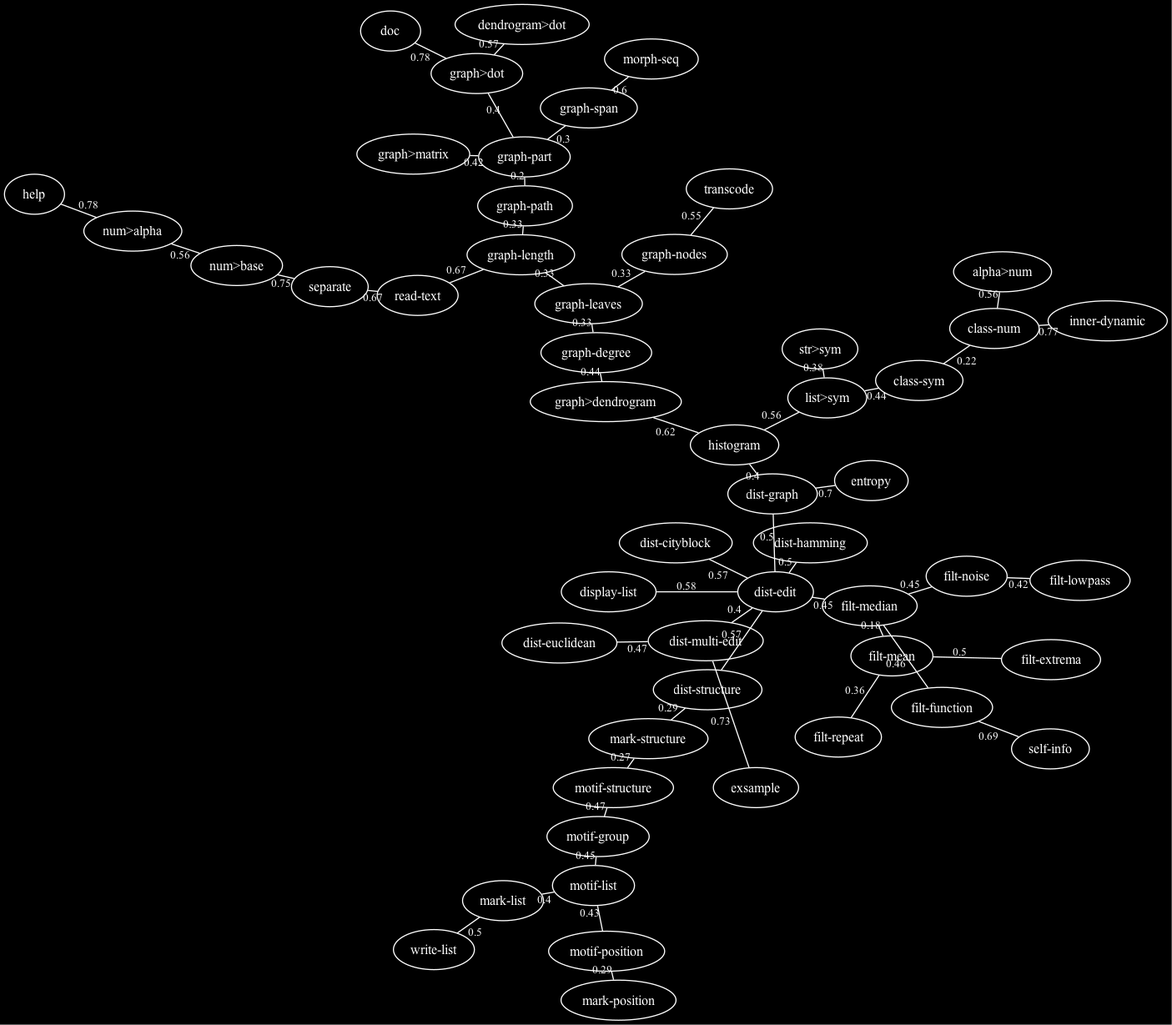
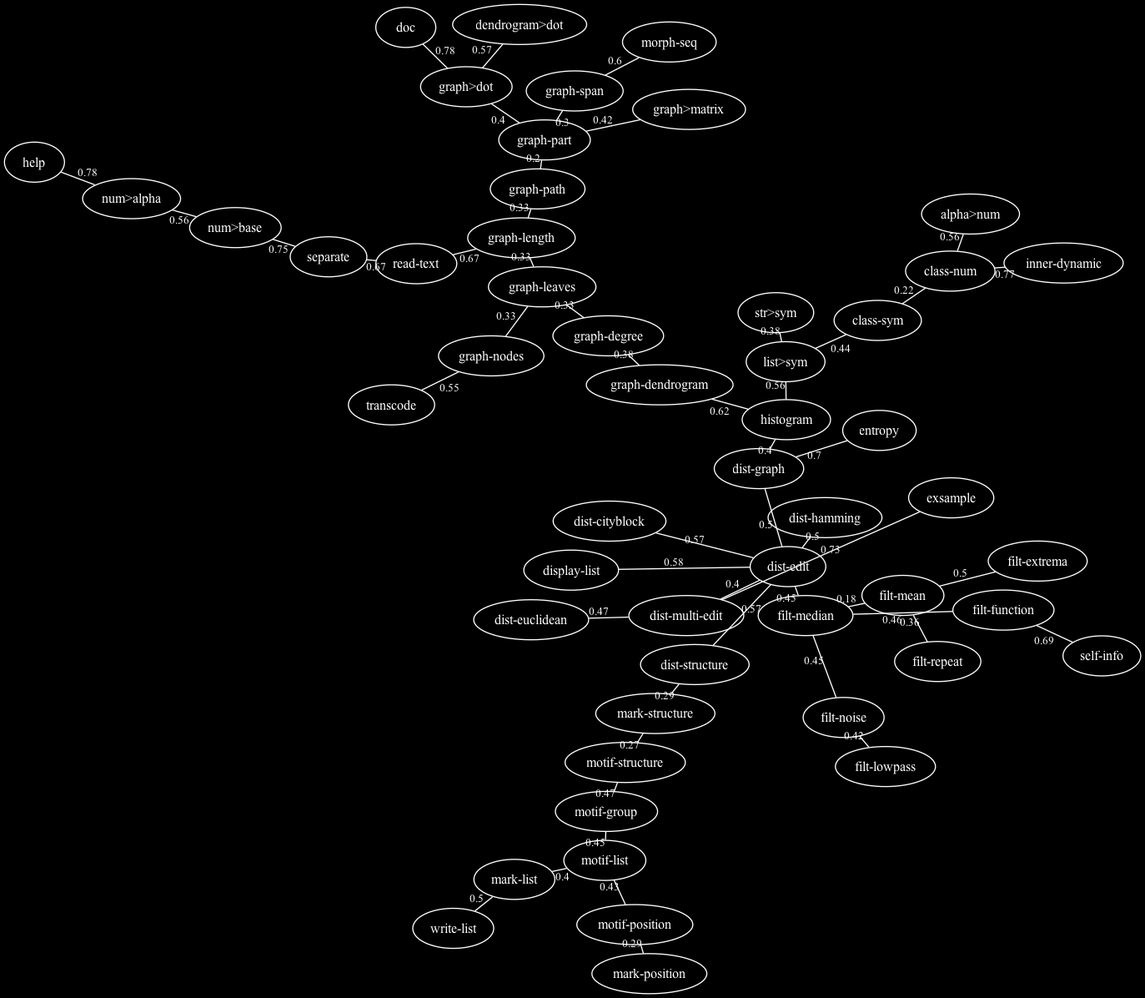
Rename graph>dendrogram graph-dendrogram; the rule of - and > documented
graph>dendrogram computes a classification, an analysis like graph-span
and graph-part: it is renamed graph-dendrogram. The sign > is kept for
the changes of representation without analysis (graph>dot,
dendrogram>dot, graph>matrix, num>base...), and the function tables now
state the rule: > for a change of representation, the hyphen for an
operation of a family. Code, tests, documentation, script of the trees,
CHANGELOG (0.2.1); trees redrawn.

diff --git a/doc/refrains-fonctions.fr.md b/doc/refrains-fonctions.fr.md
@@ -6,7 +6,7 @@ Les 52 fonctions exportées du paquet `:refrains` (version 0.2.1), regroupées s
 
 Les ressemblances entre ces fonctions, d'après leurs noms et d'après leur documentation, sont tracées dans les [Arbres des fonctions](#arbres-des-fonctions).
 
-A propos de terminologie : dans un souci de simplification et de cohérence, le nom des fonctions peut évoluer avec les versions et, autant que possible, se référer à une étymologie commune au français et à l'anglais, voire à l'indo-européen. Depuis la version 0.2.0, les noms suivent deux conventions : `famille-objet` (`filt-median`, `graph-path`, `dist-edit`, `motif-list`…) et `source>cible` pour les conversions (`num>base`, `str>sym`, `graph>dot`, `graph>dendrogram`…). Pour les fonctions qui portent sur des arbres, Fred a préféré *graph* à *arbre* : le mot est commun au français et à l'anglais (*graphe*, *graph*), la théorie des graphes s'applique aux arbres, et elle sert aussi au développement de refrains.
+A propos de terminologie : dans un souci de simplification et de cohérence, le nom des fonctions peut évoluer avec les versions et, autant que possible, se référer à une étymologie commune au français et à l'anglais, voire à l'indo-européen. Depuis la version 0.2.0, les noms suivent deux conventions : `famille-objet` (`filt-median`, `graph-path`, `dist-edit`, `motif-list`…) et `source>cible` pour les conversions (`num>base`, `str>sym`, `graph>dot`, `dendrogram>dot`…). Le signe `>` marque un changement de représentation, sans analyse : le même contenu sous une autre forme (un nombre en base n, une liste en symbole, un graphe en matrice ou en fichier dot). Le tiret marque une opération d'une famille, qui calcule quelque chose de nouveau : filtrer, mesurer une distance, chercher des motifs, classer (`graph-span`, `graph-part`, `graph-dendrogram`). Le signe `>` se lit « vers » comme « to » : il ne dépend d'aucune langue. Pour les fonctions qui portent sur des arbres, Fred a préféré *graph* à *arbre* : le mot est commun au français et à l'anglais (*graphe*, *graph*), la théorie des graphes s'applique aux arbres, et elle sert aussi au développement de refrains.
 
 ## 1. Transcription
 
@@ -26,7 +26,7 @@ A propos de terminologie : dans un souci de simplification et de cohérence, le 
 | [`filt-noise`](refrains.fr.md#filt-noise-seq-optional-mode-val) | `seq &optional mode val` | FILT-NOISE : agite ou bruite la suite &lt;seq&gt; selon différentes méthodes, choisies par le premier argument optionnel &lt;mode&gt;,<br>avec la quantité &lt;val&gt; (0.1 par défaut), relative à l'étendue (max - min) de &lt;seq&gt; :<br> :nozero : remplace chaque valeur nulle de &lt;seq&gt; par une valeur aléatoire dans ]0, val * étendue[<br> :swap : échange val * longueur paires d'éléments (val entier : le nombre d'échanges)<br> :relative : ajoute à chaque valeur une quantité aléatoire dans [-val * étendue, val * étendue]<br>Les éléments d'une suite non numérique sont échangés.<br>&lt;mode&gt; peut aussi être une fonction de deux arguments (x l) : chaque élément x de &lt;seq&gt; est remplacé par son résultat, l étant toute la suite &lt;seq&gt; ; &lt;val&gt; est alors ignoré.<br>Par exemple, (lambda (x l) (declare (ignore x)) (nth (random (length l)) l)) remplace chaque élément par un élément de &lt;seq&gt; pris au hasard. |
 | [`filt-function`](refrains.fr.md#filt-function-seq-func-window-optional-step) | `seq func window &optional step` | Applique la fonction &lt;func&gt; à la suite &lt;seq&gt; sur une fenêtre glissante de longueur &lt;window&gt;, avec le pas (optionnel) &lt;step&gt; (1 par défaut).<br>La taille de la fenêtre peut être un entier (en échantillons) ou une fraction de la longueur de seq ; le pas peut être un entier (en échantillons) ou une fraction de la fenêtre.<br>Avec un pas de 1, la fenêtre est centrée sur chaque valeur ; avec un pas plus grand, elle est centrée sur chaque bloc de step valeurs.<br>Une valeur renvoyée par &lt;func&gt; est répétée pour le bloc ; une liste remplace le bloc (step = window), ou donne les valeurs des positions du bloc. |
 | [`graph-span`](refrains.fr.md#graph-span-mat-dist-optional-verbose) | `mat-dist &optional verbose` | GRAPH-SPAN : arbre de recouvrement minimal construit sur une semi-matrice de distances &lt;mat-dist&gt;. |
-| [`graph>dendrogram`](refrains.fr.md#graphdendrogram-mat-dist-key-linkage) | `mat-dist &key linkage` | GRAPH&gt;DENDROGRAM : dendrogramme de la classification hiérarchique des objets d'une semi-matrice de<br>distances ou d'un graphe &lt;mat-dist&gt;, une liste d'arêtes (nœud-a nœud-b distance). Renvoie deux valeurs : la liste des<br>fusions successives (distance groupe-a groupe-b), par distance croissante, où un groupe est la liste de ses nœuds ;<br>et le dendrogramme, où chaque fusion est (distance arbre-a arbre-b) et dont les feuilles sont les objets.<br>:linkage définit la distance entre deux groupes : :single (par défaut) la plus petite distance entre leurs objets,<br>donnée par l'arbre de recouvrement minimal (voir graph-span ; un graphe non connexe donne la liste des dendrogrammes<br>de ses parties) ; :complete la plus grande distance ; :average (UPGMA) la distance moyenne ; :ward (méthode de Ward) la<br>fusion qui augmente le moins l'inertie intra-classe, sa distance étant la racine carrée du double de cette augmentation<br>(la distance elle-même pour deux objets). :complete, :average et :ward demandent une semi-matrice de distances complète ;<br>:ward suppose des distances euclidiennes. |
+| [`graph-dendrogram`](refrains.fr.md#graph-dendrogram-mat-dist-key-linkage) | `mat-dist &key linkage` | GRAPH-DENDROGRAM : dendrogramme de la classification hiérarchique des objets d'une semi-matrice de<br>distances ou d'un graphe &lt;mat-dist&gt;, une liste d'arêtes (nœud-a nœud-b distance). Renvoie deux valeurs : la liste des<br>fusions successives (distance groupe-a groupe-b), par distance croissante, où un groupe est la liste de ses nœuds ;<br>et le dendrogramme, où chaque fusion est (distance arbre-a arbre-b) et dont les feuilles sont les objets.<br>:linkage définit la distance entre deux groupes : :single (par défaut) la plus petite distance entre leurs objets,<br>donnée par l'arbre de recouvrement minimal (voir graph-span ; un graphe non connexe donne la liste des dendrogrammes<br>de ses parties) ; :complete la plus grande distance ; :average (UPGMA) la distance moyenne ; :ward (méthode de Ward) la<br>fusion qui augmente le moins l'inertie intra-classe, sa distance étant la racine carrée du double de cette augmentation<br>(la distance elle-même pour deux objets). :complete, :average et :ward demandent une semi-matrice de distances complète ;<br>:ward suppose des distances euclidiennes. |
 | [`graph-path`](refrains.fr.md#graph-path-from-to-graph) | `from to graph` | GRAPH-PATH : renvoie le ou les chemins d'un ou plusieurs nœuds ou feuilles vers un ou plusieurs autres nœuds ou feuilles d'un graphe ; dans un graphe avec des cycles, le plus court chemin selon les distances. |
 | [`graph>matrix`](refrains.fr.md#graphmatrix-graph) | `graph` | GRAPH&gt;MATRIX : la matrice d'adjacence symétrique de &lt;graph&gt;, une liste d'arêtes (nœud-a nœud-b distance),<br>sous forme de liste de lignes : lignes et colonnes dans l'ordre de graph-nodes, la distance de chaque arête, 0 ailleurs. |
 | [`morph-seq`](refrains.fr.md#morph-seq-seq1-seq2-key-test-random) | `seq1 seq2 &key test random` | MORPH-SEQ : interpole la suite &lt;seq1&gt; vers la suite &lt;seq2&gt; en un minimum d'étapes,<br>en changeant un élément à la fois (substitution, suppression ou insertion) le long d'un chemin d'édition de coût minimal (voir<br>dist-edit) : la liste des suites de &lt;seq1&gt; à &lt;seq2&gt;, autant d'étapes que leur distance d'édition. &lt;test&gt; :<br>identité des éléments (equalp par défaut). À coûts égaux, la substitution est préférée, puis la suppression,<br>puis l'insertion ; avec :random t, l'une d'elles au hasard. Deux chaînes donnent des chaînes. |
@@ -76,7 +76,7 @@ A propos de terminologie : dans un souci de simplification et de cohérence, le 
 | [`write-list`](refrains.fr.md#write-list-list-file-optional-mode) | `list file &optional mode` | WRITE-LIST : écrit une liste dans un fichier selon le format donné par l'argument optionnel &lt;mode&gt; :<br>:flat (par défaut) : chaque élément de la liste est écrit sur une nouvelle ligne, les sous-listes sans parenthèses (comme les lit read-text)<br>:lisp : la liste est écrite comme une liste Lisp<br>:coll : un fichier coll de Max, une ligne « index, données » par élément, à partir de l'index 0. |
 | [`display-list`](refrains.fr.md#display-list-list-optional-recursive) | `list &optional recursive` | DISPLAY-LIST : affiche dans le listener Lisp chaque élément de la liste sur une nouvelle ligne, indenté selon son niveau dans la liste. |
 | [`graph>dot`](refrains.fr.md#graphdot-graph-out-key-dis-scale-shape-legend-overlap-invert) | `graph out &key dis scale shape legend overlap invert` | GRAPH&gt;DOT : convertit un graphe (liste d'arêtes) en graphe non orienté dans le langage dot, à traiter par le programme neato.<br>Arguments :<br>&lt;graph&gt; : le graphe, sous forme de liste structurée.<br>&lt;out&gt; : si NIL ou T, affiche le résultat dans le listener ; une chaîne définit le chemin du fichier de sortie, dont le type définit le format.<br>Mots-clés :<br> :dis : distorsion permise des distances pour tracer le graphe (de 0.0, distorsion minimale, à 1.0, distorsion maximale)<br> :scale : facteur d'échelle de la distance minimale<br> :shape : chaîne ou liste de chaînes définissant la forme des nœuds, selon les définitions de neato<br> :legend : étiqueter les arêtes avec leur longueur (t par défaut)<br> :overlap : t (par défaut) laisse les nœuds se chevaucher ; nil demande à neato de les écarter (utile quand les longueurs<br>sont courtes par rapport aux noms des nœuds) ; une chaîne donne la valeur de l'attribut overlap de Graphviz ("scale", "prism"...)<br> :invert : t trace en blanc sur fond noir au lieu de noir sur fond blanc (nil par défaut) |
-| [`dendrogram>dot`](refrains.fr.md#dendrogramdot-dendrogram-out-key-width-step-invert) | `dendrogram out &key width step invert` | DENDROGRAM&gt;DOT : trace un dendrogramme, tel que le renvoie graph&gt;dendrogram (distance arbre-a arbre-b), ou une liste de<br>dendrogrammes, en langage dot avec la position de chaque point, à tracer par neato -n2 : les feuilles à gauche, une par<br>ligne, et chaque fusion à l'abscisse de sa distance, avec une échelle des distances sous les feuilles.<br>Arguments :<br>&lt;dendrogram&gt; : le dendrogramme, ou une liste de dendrogrammes (la seconde valeur de graph&gt;dendrogram pour un graphe non connexe).<br>&lt;out&gt; : si NIL ou T, affiche le résultat dans le listener ; un flux, y écrit ; une chaîne définit le chemin de sortie :<br>un fichier dot et, sauf si son type est dot, l'image produite par neato -n2 au format de son type (png sans type).<br>Mots-clés :<br> :width : largeur de l'échelle, en points (700 par défaut)<br> :step : espace entre deux feuilles, en points (16 par défaut)<br> :invert : t trace en blanc sur fond noir au lieu de noir sur fond blanc (nil par défaut) |
+| [`dendrogram>dot`](refrains.fr.md#dendrogramdot-dendrogram-out-key-width-step-invert) | `dendrogram out &key width step invert` | DENDROGRAM&gt;DOT : trace un dendrogramme, tel que le renvoie graph-dendrogram (distance arbre-a arbre-b), ou une liste de<br>dendrogrammes, en langage dot avec la position de chaque point, à tracer par neato -n2 : les feuilles à gauche, une par<br>ligne, et chaque fusion à l'abscisse de sa distance, avec une échelle des distances sous les feuilles.<br>Arguments :<br>&lt;dendrogram&gt; : le dendrogramme, ou une liste de dendrogrammes (la seconde valeur de graph-dendrogram pour un graphe non connexe).<br>&lt;out&gt; : si NIL ou T, affiche le résultat dans le listener ; un flux, y écrit ; une chaîne définit le chemin de sortie :<br>un fichier dot et, sauf si son type est dot, l'image produite par neato -n2 au format de son type (png sans type).<br>Mots-clés :<br> :width : largeur de l'échelle, en points (700 par défaut)<br> :step : espace entre deux feuilles, en points (16 par défaut)<br> :invert : t trace en blanc sur fond noir au lieu de noir sur fond blanc (nil par défaut) |
 
 ## Documentation
 
@@ -90,7 +90,7 @@ A propos de terminologie : dans un souci de simplification et de cohérence, le 
 Les 52 fonctions reliées par leurs ressemblances, avec refrains lui-même : deux
 arbres de recouvrement minimal (`graph-span`), dessinés avec `graph>dot` et
 neato. Plus une arête est courte, plus les deux fonctions sont proches. Le
-dendrogramme de chaque arbre (`graph>dendrogram`, lien simple) range ses
+dendrogramme de chaque arbre (`graph-dendrogram`, lien simple) range ses
 fusions par distance croissante : les feuilles sont à gauche, et chaque fusion
 est placée à l'abscisse de sa distance (`dendrogram>dot`). Le fichier
 [refrains-trees.lisp](pictures/refrains-trees.lisp) recalcule les arbres et
@@ -111,7 +111,7 @@ retirés. Les variantes d'un même mot sont fusionnées en un terme générique,
 plus court d'entre elles (*list* et *lists* ; *define*, *defined* et
 *defines*…) : ce sont les mots dont la distance d'édition relative
 (`dist-edit`, une substitution comptant comme une suppression et une
-insertion) est au plus 0,2, regroupés avec `graph>dendrogram`. Enfin, les
+insertion) est au plus 0,2, regroupés avec `graph-dendrogram`. Enfin, les
 termes présents dans plus de 10 des 52 docstrings (*of*, *list*, *with*…),
 comptés avec `histogram`, sont écartés. Les groupes y viennent du
 vocabulaire, et non plus des noms.

diff --git a/doc/refrains-functions.md b/doc/refrains-functions.md
@@ -6,7 +6,7 @@ The 52 functions exported by the `:refrains` package (version 0.2.1), grouped by
 
 The resemblances between these functions, by their names and by their documentation, are drawn in the [Function trees](#function-trees).
 
-About terminology: for the sake of simplicity and consistency, the names of the functions may change with the versions and, as far as possible, refer to an etymology common to French and English, or even to Indo-European. Since version 0.2.0, the names follow two conventions: `family-object` (`filt-median`, `graph-path`, `dist-edit`, `motif-list`…) and `source>target` for conversions (`num>base`, `str>sym`, `graph>dot`, `graph>dendrogram`…). For the functions on trees, Fred preferred *graph* to *tree*: the word is common to French and English (*graphe*, *graph*), graph theory applies to trees, and it is also used in developing refrains.
+About terminology: for the sake of simplicity and consistency, the names of the functions may change with the versions and, as far as possible, refer to an etymology common to French and English, or even to Indo-European. Since version 0.2.0, the names follow two conventions: `family-object` (`filt-median`, `graph-path`, `dist-edit`, `motif-list`…) and `source>target` for conversions (`num>base`, `str>sym`, `graph>dot`, `dendrogram>dot`…). The sign `>` marks a change of representation, without analysis: the same content in another form (a number in base n, a list as a symbol, a graph as a matrix or a dot file). The hyphen marks an operation of a family, which computes something new: filtering, measuring a distance, looking for motifs, classifying (`graph-span`, `graph-part`, `graph-dendrogram`). The sign `>` reads "to" as well as « vers »: it does not depend on a language. For the functions on trees, Fred preferred *graph* to *tree*: the word is common to French and English (*graphe*, *graph*), graph theory applies to trees, and it is also used in developing refrains.
 
 ![Minimum spanning tree of the verbs naming the analysis operations](pictures/morpho-processes.png)
 
@@ -33,7 +33,7 @@ Deleuze : la pensée-musique*, CDMC, 2015).*
 | [`filt-noise`](refrains.md#filt-noise-seq-optional-mode-val) | `seq &optional mode val` | FILT-NOISE: jitters or adds some noise into sequence &lt;seq&gt; using different methods, according to the first optional argument &lt;mode&gt;,<br>with the amount &lt;val&gt; (0.1 by default), relative to the range (max - min) of &lt;seq&gt;:<br> :nozero : replaces each zero value of &lt;seq&gt; with a random value in ]0, val * range[<br> :swap : swaps val * length pairs of elements (val integer: the number of swaps)<br> :relative : adds to each value a random amount in [-val * range, val * range]<br>A sequence which is not numerical is swapped.<br>&lt;mode&gt; may also be a function of two arguments (x l): each element x of &lt;seq&gt; is replaced by its result, l being the whole &lt;seq&gt;; &lt;val&gt; is ignored.<br>For instance (lambda (x l) (declare (ignore x)) (nth (random (length l)) l)) replaces each element by a random element of &lt;seq&gt;. |
 | [`filt-function`](refrains.md#filt-function-seq-func-window-optional-step) | `seq func window &optional step` | Apply function &lt;func&gt; to sequence &lt;seq&gt; thru a sliding window of length &lt;window&gt; by (optional) step &lt;step&gt; (1 by default).<br>Window size may be an integer (samples) or a fraction of the length of seq; step size may be an integer (samples) or a fraction of the window.<br>With step 1 the window is centred on each value; with a larger step it is centred on each block of step values.<br>A value returned by &lt;func&gt; is repeated for the block; a list replaces the block (step = window), or gives the values of the block's positions. |
 | [`graph-span`](refrains.md#graph-span-mat-dist-optional-verbose) | `mat-dist &optional verbose` | GRAPH-SPAN: minimum spanning tree build on a semi-matrix of distances &lt;mat-dist&gt;. |
-| [`graph>dendrogram`](refrains.md#graphdendrogram-mat-dist-key-linkage) | `mat-dist &key linkage` | GRAPH&gt;DENDROGRAM: dendrogram of the hierarchical classification of the objects of a semi-matrix of<br>distances or of a graph &lt;mat-dist&gt;, a list of edges (node-a node-b distance). Returns two values: the list of the<br>successive fusions (distance group-a group-b), by increasing distance, where a group is the list of its nodes;<br>and the dendrogram, where each fusion is (distance tree-a tree-b) and the leaves are the objects.<br>:linkage defines the distance of two groups: :single (by default) the smallest distance of their objects,<br>given by the minimum spanning tree (see graph-span; a graph not connected gives the list of the dendrograms<br>of its parts); :complete the greatest distance; :average (UPGMA) the mean distance; :ward (Ward's method) the<br>fusion that increases the least the inertia within the groups, its distance being the square root of twice<br>this increase (the distance itself for two objects). :complete, :average and :ward need a complete semi-matrix<br>of distances; :ward supposes euclidean distances. |
+| [`graph-dendrogram`](refrains.md#graph-dendrogram-mat-dist-key-linkage) | `mat-dist &key linkage` | GRAPH-DENDROGRAM: dendrogram of the hierarchical classification of the objects of a semi-matrix of<br>distances or of a graph &lt;mat-dist&gt;, a list of edges (node-a node-b distance). Returns two values: the list of the<br>successive fusions (distance group-a group-b), by increasing distance, where a group is the list of its nodes;<br>and the dendrogram, where each fusion is (distance tree-a tree-b) and the leaves are the objects.<br>:linkage defines the distance of two groups: :single (by default) the smallest distance of their objects,<br>given by the minimum spanning tree (see graph-span; a graph not connected gives the list of the dendrograms<br>of its parts); :complete the greatest distance; :average (UPGMA) the mean distance; :ward (Ward's method) the<br>fusion that increases the least the inertia within the groups, its distance being the square root of twice<br>this increase (the distance itself for two objects). :complete, :average and :ward need a complete semi-matrix<br>of distances; :ward supposes euclidean distances. |
 | [`graph-path`](refrains.md#graph-path-from-to-graph) | `from to graph` | GRAPH-PATH: returns path(s) from node(s) or leave(s) to one or some other node(s) or leave(s) of a graph; in a graph with cycles, the shortest path by distance. |
 | [`graph>matrix`](refrains.md#graphmatrix-graph) | `graph` | GRAPH&gt;MATRIX: the symmetric adjacency matrix of &lt;graph&gt;, a list of edges (node-a node-b distance),<br>as a list of rows: rows and columns in the order of graph-nodes, the distance of each edge, 0 elsewhere. |
 | [`morph-seq`](refrains.md#morph-seq-seq1-seq2-key-test-random) | `seq1 seq2 &key test random` | MORPH-SEQ: interpolates the sequence &lt;seq1&gt; to the sequence &lt;seq2&gt; with the minimum of steps,<br>changing one element at a time (substitution, deletion or insertion) along an edit path of minimal cost (see<br>dist-edit): the list of the sequences from &lt;seq1&gt; to &lt;seq2&gt;, as many steps as their edit distance. &lt;test&gt;:<br>identity of the elements (equalp by default). For equal costs, substitution is preferred, then deletion,<br>then insertion; with :random t, one of them at random. Two strings give strings. |
@@ -83,7 +83,7 @@ Deleuze : la pensée-musique*, CDMC, 2015).*
 | [`write-list`](refrains.md#write-list-list-file-optional-mode) | `list file &optional mode` | WRITE-LIST: write list to a file using following optional argument &lt;mode&gt; format:<br>:flat (by default) : each element of list is written in a new line, sub-lists without parentheses (as read by read-text)<br>:lisp : list is written as a Lisp list<br>:coll : a Max coll file, one line index, data; for each element, from index 0. |
 | [`display-list`](refrains.md#display-list-list-optional-recursive) | `list &optional recursive` | DISPLAY-LIST: prints out to the Lisp listener each element of list within a newline with indentation relative to list level. |
 | [`graph>dot`](refrains.md#graphdot-graph-out-key-dis-scale-shape-legend-overlap-invert) | `graph out &key dis scale shape legend overlap invert` | GRAPH&gt;DOT: converts a graph (list of edges) into an undirected graph into dot langage to be processed using neato program.<br>Arguments:<br>&lt;graph&gt; : the graph, as a structured list.<br>&lt;out&gt; : if NIL or T, print out in listener; if a string, it defines the pathname of the output. Type of file define output.<br>Keywords:<br> :dis : amount of distortion allowed for distances fir drawing the graph (from 0.0 for minimum distorsion to 1.0 maximum distorsion)<br> :scale : scaling factor for the mininum distance<br> :shape : string or list of strings to define node's shape, using 'neato' definitions<br> :legend : label the edges with their lengths (t by default)<br> :overlap : t (default) lets the nodes overlap; nil makes neato move them apart (useful when the lengths<br>are short compared with the names of the nodes); a string is the value of the Graphviz overlap attribute ("scale", "prism"...)<br> :invert : t draws white on black instead of black on white (nil by default) |
-| [`dendrogram>dot`](refrains.md#dendrogramdot-dendrogram-out-key-width-step-invert) | `dendrogram out &key width step invert` | DENDROGRAM&gt;DOT: draws a dendrogram, as given by graph&gt;dendrogram (distance tree-a tree-b), or a list of<br>dendrograms, in dot langage with the position of each point, to be drawn by neato -n2: the leaves on the left, one by<br>line, and each fusion at the abscissa of its distance, with a scale of the distances under the leaves.<br>Arguments:<br>&lt;dendrogram&gt; : the dendrogram, or a list of dendrograms (the second value of graph&gt;dendrogram for a graph not connected).<br>&lt;out&gt; : if NIL or T, print out in listener; a stream, write into it; if a string, it defines the pathname of the output:<br>a dot file, and, unless its type is dot, the image made by neato -n2 in the format of its type (png without type).<br>Keywords:<br> :width : the width of the scale, in points (700 by default)<br> :step : the space between two leaves, in points (16 by default)<br> :invert : t draws white on black instead of black on white (nil by default) |
+| [`dendrogram>dot`](refrains.md#dendrogramdot-dendrogram-out-key-width-step-invert) | `dendrogram out &key width step invert` | DENDROGRAM&gt;DOT: draws a dendrogram, as given by graph-dendrogram (distance tree-a tree-b), or a list of<br>dendrograms, in dot langage with the position of each point, to be drawn by neato -n2: the leaves on the left, one by<br>line, and each fusion at the abscissa of its distance, with a scale of the distances under the leaves.<br>Arguments:<br>&lt;dendrogram&gt; : the dendrogram, or a list of dendrograms (the second value of graph-dendrogram for a graph not connected).<br>&lt;out&gt; : if NIL or T, print out in listener; a stream, write into it; if a string, it defines the pathname of the output:<br>a dot file, and, unless its type is dot, the image made by neato -n2 in the format of its type (png without type).<br>Keywords:<br> :width : the width of the scale, in points (700 by default)<br> :step : the space between two leaves, in points (16 by default)<br> :invert : t draws white on black instead of black on white (nil by default) |
 
 ## Documentation
 
@@ -97,7 +97,7 @@ Deleuze : la pensée-musique*, CDMC, 2015).*
 The 52 functions linked by their resemblances, with refrains itself: two
 minimum spanning trees (`graph-span`), drawn with `graph>dot` and neato. The
 shorter an edge, the closer the two functions. The dendrogram of each tree
-(`graph>dendrogram`, single linkage) orders its fusions by increasing
+(`graph-dendrogram`, single linkage) orders its fusions by increasing
 distance: the leaves are on the left, and each fusion is placed at the
 abscissa of its distance (`dendrogram>dot`). The file
 [refrains-trees.lisp](pictures/refrains-trees.lisp) computes the trees again
@@ -117,7 +117,7 @@ docstrings, split into words with `separate`. The articles (*a*, *an*,
 The variants of a same word are merged into a generic term, the shortest of
 them (*list* and *lists*; *define*, *defined* and *defines*…): the words
 whose relative edit distance (`dist-edit`, a substitution counting as a
-deletion and an insertion) is at most 0.2, grouped with `graph>dendrogram`.
+deletion and an insertion) is at most 0.2, grouped with `graph-dendrogram`.
 Last, the terms found in more than 10 of the 52 docstrings (*of*, *list*,
 *with*…), counted with `histogram`, are left out. The groups there come from
 the vocabulary, no longer from the names.

diff --git a/doc/refrains.fr.md b/doc/refrains.fr.md
@@ -257,7 +257,7 @@ le [README](../README.md#if-the-system-refrains-is-not-found).
        filt-median, filt-extrema, filt-mean, filt-lowpass, filt-repeat, filt-noise,
        filt-function
 ;;  1.3 DÉLINÉER : tracer des graphes
-       graph-span, graph>dendrogram, graph-path, graph>matrix
+       graph-span, graph-dendrogram, graph-path, graph>matrix
 ;;  1.4 INTERPOLER
        morph-seq
 ;;; 2. CLASSIFICATION
@@ -590,7 +590,7 @@ Par exemple, des profils mélodiques aléatoires peuvent être comparés entre e
 par la distance d'édition de leurs signatures : `graph-span` donne alors
 l'arbre de leurs ressemblances.
 
-#### `graph>dendrogram (mat-dist &key linkage)`
+#### `graph-dendrogram (mat-dist &key linkage)`
 
 Dendrogramme de la classification hiérarchique ascendante des objets d'une
 semi-matrice de distances ou des nœuds d'un graphe : à chaque étape, les deux
@@ -626,12 +626,12 @@ distances sont entières. Expérimental.
 ```lisp
 (defparameter *m* '((a b 1) (a c 4) (a d 6) (a e 8) (b c 2)
                     (b d 5) (b e 7) (c d 5) (c e 6) (d e 1)))
-(graph>dendrogram *m*)
+(graph-dendrogram *m*)
 ;=> ((1 (A) (B)) (1 (D) (E)) (2 (A B) (C)) (5 (A B C) (D E)))
 ;   (5 (2 (1 A B) C) (1 D E))
-(nth-value 1 (graph>dendrogram *m* :linkage :complete))
+(nth-value 1 (graph-dendrogram *m* :linkage :complete))
 ;=> (8 (4 (1 A B) C) (1 D E))
-(nth-value 1 (graph>dendrogram *m* :linkage :average))
+(nth-value 1 (graph-dendrogram *m* :linkage :average))
 ;=> (37/6 (3 (1 A B) C) (1 D E))
 ```
 
@@ -670,7 +670,7 @@ mots, il s'applique encore, mais à titre empirique.
 
 ```lisp
 ;; cinq points du plan, comparés par dist-euclidean
-(graph>dendrogram (dist-euclidean '((0 0) (1 0) (0 3) (10 10) (11 10)) nil)
+(graph-dendrogram (dist-euclidean '((0 0) (1 0) (0 3) (10 10) (11 10)) nil)
                   :linkage :ward)
 ;=> ((1.0 (0) (1)) (1.0 (3) (4)) (3.5118845 (0 1) (2)) (21.034891 (0 1 2) (3 4)))
 ;   (21.034891 (3.5118845 (1.0 0 1) 2) (1.0 3 4))
@@ -1649,7 +1649,7 @@ Le fichier dot peut aussi être tracé à la main :
 
 #### `dendrogram>dot (dendrogram out &key width step invert)`
 
-Trace un dendrogramme, tel que le renvoie `graph>dendrogram`
+Trace un dendrogramme, tel que le renvoie `graph-dendrogram`
 (`(distance arbre-a arbre-b)`), ou une liste de dendrogrammes (pour un graphe
 non connexe). Les feuilles sont à gauche, une par ligne, dans l'ordre du
 dendrogramme ; chaque fusion est placée à l'abscisse de sa distance, et une
@@ -1666,7 +1666,7 @@ il se trace avec `neato -n2`.
 - `:invert` : `t` trace en blanc sur fond noir (`nil` par défaut).
 
 ```lisp
-(dendrogram>dot (nth-value 1 (graph>dendrogram *m*)) "/tmp/dendrogramme.png")
+(dendrogram>dot (nth-value 1 (graph-dendrogram *m*)) "/tmp/dendrogramme.png")
 ;=> "/tmp/dendrogramme.png"   ; écrit /tmp/dendrogramme.dot et .png
 ```
 
@@ -1846,7 +1846,7 @@ et [« Arbres de recouvrement minimal de chants d'oiseaux »](https://fredvoisin
 
 - Benzécri, Jean-Paul et al., *L'Analyse des données*, t. 1 : *La
   Taxinomie*, Paris, Dunod, 1973 (classification ascendante hiérarchique,
-  `graph>dendrogram`).
+  `graph-dendrogram`).
 - Diday, E. et al., *Éléments d'analyse de données*, Paris, Dunod, 1982
   (nuées dynamiques, `class-num` ; critère de Ward ; ancien arbre de
   recouvrement).
@@ -1858,13 +1858,13 @@ et [« Arbres de recouvrement minimal de chants d'oiseaux »](https://fredvoisin
   `graph>dot`).
 - Lance, G. N. & Williams, W. T., « A general theory of classificatory
   sorting strategies. 1. Hierarchical systems », *The Computer Journal*
-  9(4), 1967, p. 373–380 (`graph>dendrogram`).
+  9(4), 1967, p. 373–380 (`graph-dendrogram`).
 - Perng, Parker & Leung, « Representing time series by landmarks »,
   *Conference on Information and Knowledge Management*, 1999
   (`exsample :landmarks`).
 - Ward, Joe H., « Hierarchical grouping to optimize an objective
   function », *Journal of the American Statistical Association* 58(301),
-  1963, p. 236–244 (`graph>dendrogram :linkage :ward`).
+  1963, p. 236–244 (`graph-dendrogram :linkage :ward`).
 
 ## Liste des fonctions
 

diff --git a/doc/refrains.md b/doc/refrains.md
@@ -209,7 +209,7 @@ also the [README](../README.md#if-the-system-refrains-is-not-found).
        filt-median, filt-extrema, filt-mean, filt-lowpass, filt-repeat, filt-noise,
        filt-function
 ;;  1.3 DELINEATE : trace graphs
-       graph-span, graph>dendrogram, graph-path, graph>matrix
+       graph-span, graph-dendrogram, graph-path, graph>matrix
 ;;  1.4 INTERPOLATE
        morph-seq
 ;;; 2. CLASSIFICATION
@@ -529,7 +529,7 @@ For instance, random melodic profiles can be compared with each other by the
 edit distance of their signatures: `graph-span` then gives the tree of their
 resemblances.
 
-#### `graph>dendrogram (mat-dist &key linkage)`
+#### `graph-dendrogram (mat-dist &key linkage)`
 
 Dendrogram of the agglomerative hierarchical classification of the objects of
 a semi-matrix of distances or of the nodes of a graph: at each step, the two
@@ -565,12 +565,12 @@ Experimental.
 ```lisp
 (defparameter *m* '((a b 1) (a c 4) (a d 6) (a e 8) (b c 2)
                     (b d 5) (b e 7) (c d 5) (c e 6) (d e 1)))
-(graph>dendrogram *m*)
+(graph-dendrogram *m*)
 ;=> ((1 (A) (B)) (1 (D) (E)) (2 (A B) (C)) (5 (A B C) (D E)))
 ;   (5 (2 (1 A B) C) (1 D E))
-(nth-value 1 (graph>dendrogram *m* :linkage :complete))
+(nth-value 1 (graph-dendrogram *m* :linkage :complete))
 ;=> (8 (4 (1 A B) C) (1 D E))
-(nth-value 1 (graph>dendrogram *m* :linkage :average))
+(nth-value 1 (graph-dendrogram *m* :linkage :average))
 ;=> (37/6 (3 (1 A B) C) (1 D E))
 ```
 
@@ -608,7 +608,7 @@ but empirically.
 
 ```lisp
 ;; five points of the plane, compared by dist-euclidean
-(graph>dendrogram (dist-euclidean '((0 0) (1 0) (0 3) (10 10) (11 10)) nil)
+(graph-dendrogram (dist-euclidean '((0 0) (1 0) (0 3) (10 10) (11 10)) nil)
                   :linkage :ward)
 ;=> ((1.0 (0) (1)) (1.0 (3) (4)) (3.5118845 (0 1) (2)) (21.034891 (0 1 2) (3 4)))
 ;   (21.034891 (3.5118845 (1.0 0 1) 2) (1.0 3 4))
@@ -1551,7 +1551,7 @@ The dot file can also be drawn by hand: `neato -Tpng graph.dot -o graph.png`.
 
 #### `dendrogram>dot (dendrogram out &key width step invert)`
 
-Draws a dendrogram, as returned by `graph>dendrogram`
+Draws a dendrogram, as returned by `graph-dendrogram`
 (`(distance tree-a tree-b)`), or a list of dendrograms (for a graph not
 connected). The leaves are on the left, one by line, in the order of the
 dendrogram; each fusion is placed at the abscissa of its distance, and a
@@ -1568,7 +1568,7 @@ with `neato -n2`.
 - `:invert`: `t` draws white on black (`nil` by default).
 
 ```lisp
-(dendrogram>dot (nth-value 1 (graph>dendrogram *m*)) "/tmp/dendrogram.png")
+(dendrogram>dot (nth-value 1 (graph-dendrogram *m*)) "/tmp/dendrogram.png")
 ;=> "/tmp/dendrogram.png"   ; writes /tmp/dendrogram.dot and .png
 ```
 
@@ -1736,7 +1736,7 @@ and [« Arbres de recouvrement minimal de chants d'oiseaux »](https://fredvoisi
 
 - Benzécri, Jean-Paul et al., *L'Analyse des données*, vol. 1: *La
   Taxinomie*, Paris, Dunod, 1973 (agglomerative hierarchical classification,
-  `graph>dendrogram`).
+  `graph-dendrogram`).
 - Diday, E. et al., *Éléments d'analyse de données*, Paris, Dunod, 1982
   (dynamic clouds, `class-num`; Ward's criterion; earlier spanning tree).
 - Fink & Gandhi, "Important extrema in time series", *Conference on Systems,
@@ -1747,13 +1747,13 @@ and [« Arbres de recouvrement minimal de chants d'oiseaux »](https://fredvoisi
   `graph>dot`).
 - Lance, G. N. & Williams, W. T., "A general theory of classificatory
   sorting strategies. 1. Hierarchical systems", *The Computer Journal* 9(4),
-  1967, pp. 373–380 (`graph>dendrogram`).
+  1967, pp. 373–380 (`graph-dendrogram`).
 - Perng, Parker & Leung, "Representing time series by landmarks",
   *Conference on Information and Knowledge Management*, 1999
   (`exsample :landmarks`).
 - Ward, Joe H., "Hierarchical grouping to optimize an objective function",
   *Journal of the American Statistical Association* 58(301), 1963,
-  pp. 236–244 (`graph>dendrogram :linkage :ward`).
+  pp. 236–244 (`graph-dendrogram :linkage :ward`).
 
 ## List of functions
 

diff --git a/CHANGELOG.md b/CHANGELOG.md
@@ -20,10 +20,10 @@ refrains 0.0.1 starts from fv-morphologie 1.4.0, and the versions below it
 - `graph>dot` takes `:invert`: `t` draws white on black instead of black on
   white (`nil` by default).
 - `dendrogram>dot (dendrogram out &key width step invert)`: draws a
-  dendrogram of `graph>dendrogram`, or a list of them, in dot with the
+  dendrogram of `graph-dendrogram`, or a list of them, in dot with the
   position of each point, for `neato -n2`: the leaves on the left, each
   fusion at the abscissa of its distance, and a scale of the distances.
-- `graph>dendrogram` takes `:linkage :ward` (Ward, 1963): the fusion that
+- `graph-dendrogram` takes `:linkage :ward` (Ward, 1963): the fusion that
   increases the least the within-group inertia, computed with Lance and
   Williams' formula; the height of a fusion is the square root of twice
   this increase (the distance itself for two objects). The documentation
@@ -32,13 +32,17 @@ refrains 0.0.1 starts from fv-morphologie 1.4.0, and the versions below it
 - Documentation: two minimum spanning trees of the functions, by their names
   and by the vocabulary of their docstrings, computed with refrains by
   `doc/pictures/refrains-trees.lisp` (which uses `:overlap nil` and
-  `:invert t`), with their dendrograms (`graph>dendrogram` and
+  `:invert t`), with their dendrograms (`graph-dendrogram` and
   `dendrogram>dot`), and the figure
   of the operations, in white on black; what to do
   when the system "refrains" is not found.
 
 ### Changed
 
+- `graph>dendrogram` is renamed `graph-dendrogram`: it computes a
+  classification (an analysis), as `graph-span` or `graph-part` do, while
+  `>` is kept for the changes of representation without analysis
+  (`graph>dot`, `dendrogram>dot`, `graph>matrix`, `num>base`...).
 - `graph>dot` and `dendrogram>dot` are in the section 4 of the menu
   (reading and writing files), since they write files, and `graph>matrix`
   in the section 1.3 (delineate), in `help`, in the documentation and in the
